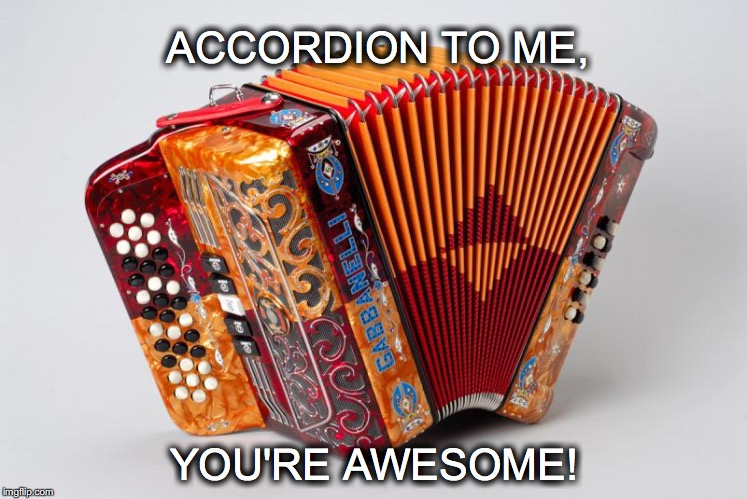
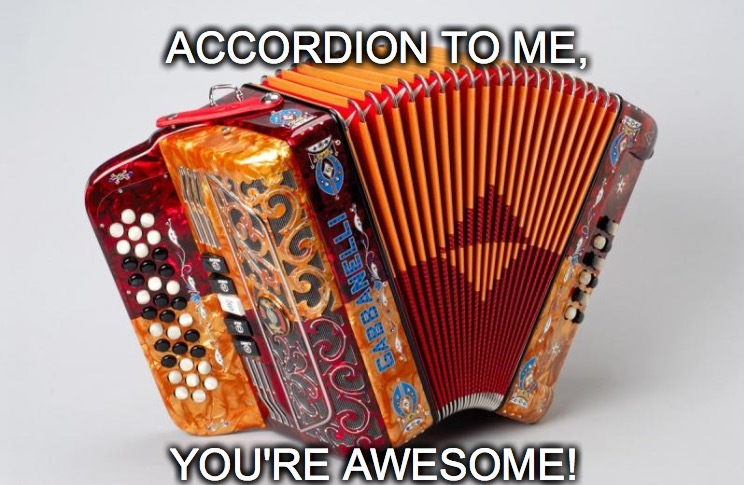
feat: add images, first mem open (Sun, Mar 12, 2023 05:05:13 PM)

diff --git a/cssBayan/index.html b/cssBayan/index.html
@@ -12,25 +12,25 @@
         <div class="row"> 
             <h1>CCS Bayan</h1>
             <div class="accordion">
-                <details class="accordion__item">
+                <details open class="accordion__item">
                     <summary class="accordion__title">1st meme</summary>
-                    <p class="accordion__body">Lorem ipsum dolor sit amet consectetur adipisicing elit. Eveniet aspernatur vero officia soluta iure dolores saepe nam inventore ducimus illo, laborum nemo ipsam quaerat doloribus totam dolorum ex voluptatum voluptatem?</p>
+                    <p class="accordion__body"><img src="images/img1.jpg"></p>
                 </details>
                 <details class="accordion__item">
                     <summary class="accordion__title">2nd meme</summary>
-                    <p class="accordion__body">Lorem ipsum dolor sit amet consectetur adipisicing elit. Eveniet aspernatur vero officia soluta iure dolores saepe nam inventore ducimus illo, laborum nemo ipsam quaerat doloribus totam dolorum ex voluptatum voluptatem?</p>
+                    <p class="accordion__body"><img src="images/img4.jpg"></p>
                 </details>
                 <details class="accordion__item">
                     <summary class="accordion__title">3rd meme</summary>
-                    <p class="accordion__body">Lorem ipsum dolor sit amet consectetur adipisicing elit. Eveniet aspernatur vero officia soluta iure dolores saepe nam inventore ducimus illo, laborum nemo ipsam quaerat doloribus totam dolorum ex voluptatum voluptatem?</p>
+                    <p class="accordion__body"><img src="images/img3.jpg"></p>
                 </details>
                 <details class="accordion__item">
                     <summary class="accordion__title">4th meme</summary>
-                    <p class="accordion__body">Lorem ipsum dolor sit amet consectetur adipisicing elit. Eveniet aspernatur vero officia soluta iure dolores saepe nam inventore ducimus illo, laborum nemo ipsam quaerat doloribus totam dolorum ex voluptatum voluptatem?</p>
+                    <p class="accordion__body"><img src="images/img2.jpg"></p>
                 </details>
                 <details class="accordion__item">
                     <summary class="accordion__title">5th meme</summary>
-                    <p class="accordion__body">Lorem ipsum dolor sit amet consectetur adipisicing elit. Eveniet aspernatur vero officia soluta iure dolores saepe nam inventore ducimus illo, laborum nemo ipsam quaerat doloribus totam dolorum ex voluptatum voluptatem?</p>
+                    <p class="accordion__body"><img src="images/img5.jpg"></p>
                 </details>
             </div>
         </div>

diff --git a/cssBayan/style.css b/cssBayan/style.css
@@ -14,6 +14,10 @@ h1{
     padding: 2%;
     font-size: 46px;
 }
+img{
+    width: 100%;
+    height: 35vh;
+}
 
 .wrapper{
     display: flex;
@@ -23,7 +27,7 @@ h1{
     min-height: 100vh;
 }
 .accordion{
-    width: 50vw;
+    width: 30vw;
     box-shadow: 0 0 12px 4px rgba(0, 0, 0, 0.4);
     border-radius: 1%;
     overflow: hidden;
@@ -51,20 +55,22 @@ h1{
     position: absolute;
     right: 1%;
     top:50%;
-    transform: translateY(-90%);
+    transform: translateY(-70%);
     transition: 0.3s all;
 }
 
 .accordion__item[open] .accordion__title::after{
-    transform: translateY(-90%) rotate(45deg);
+    transform: translateY(-70%) rotate(45deg);
 }
 .accordion__body {
     padding: 2%;
+    cursor: pointer;
 }
 
 @media (max-width: 320px) {
     .accordion__title{
         font-size: 40px;
+       
     }
 
 }
@@ -74,9 +80,10 @@ h1{
     }
 
 }
-@media (max-width: 1080px) {
+@media (max-width: 1920px) {
     .accordion__title{
         font-size: 24px;
     }
+
 
 }
